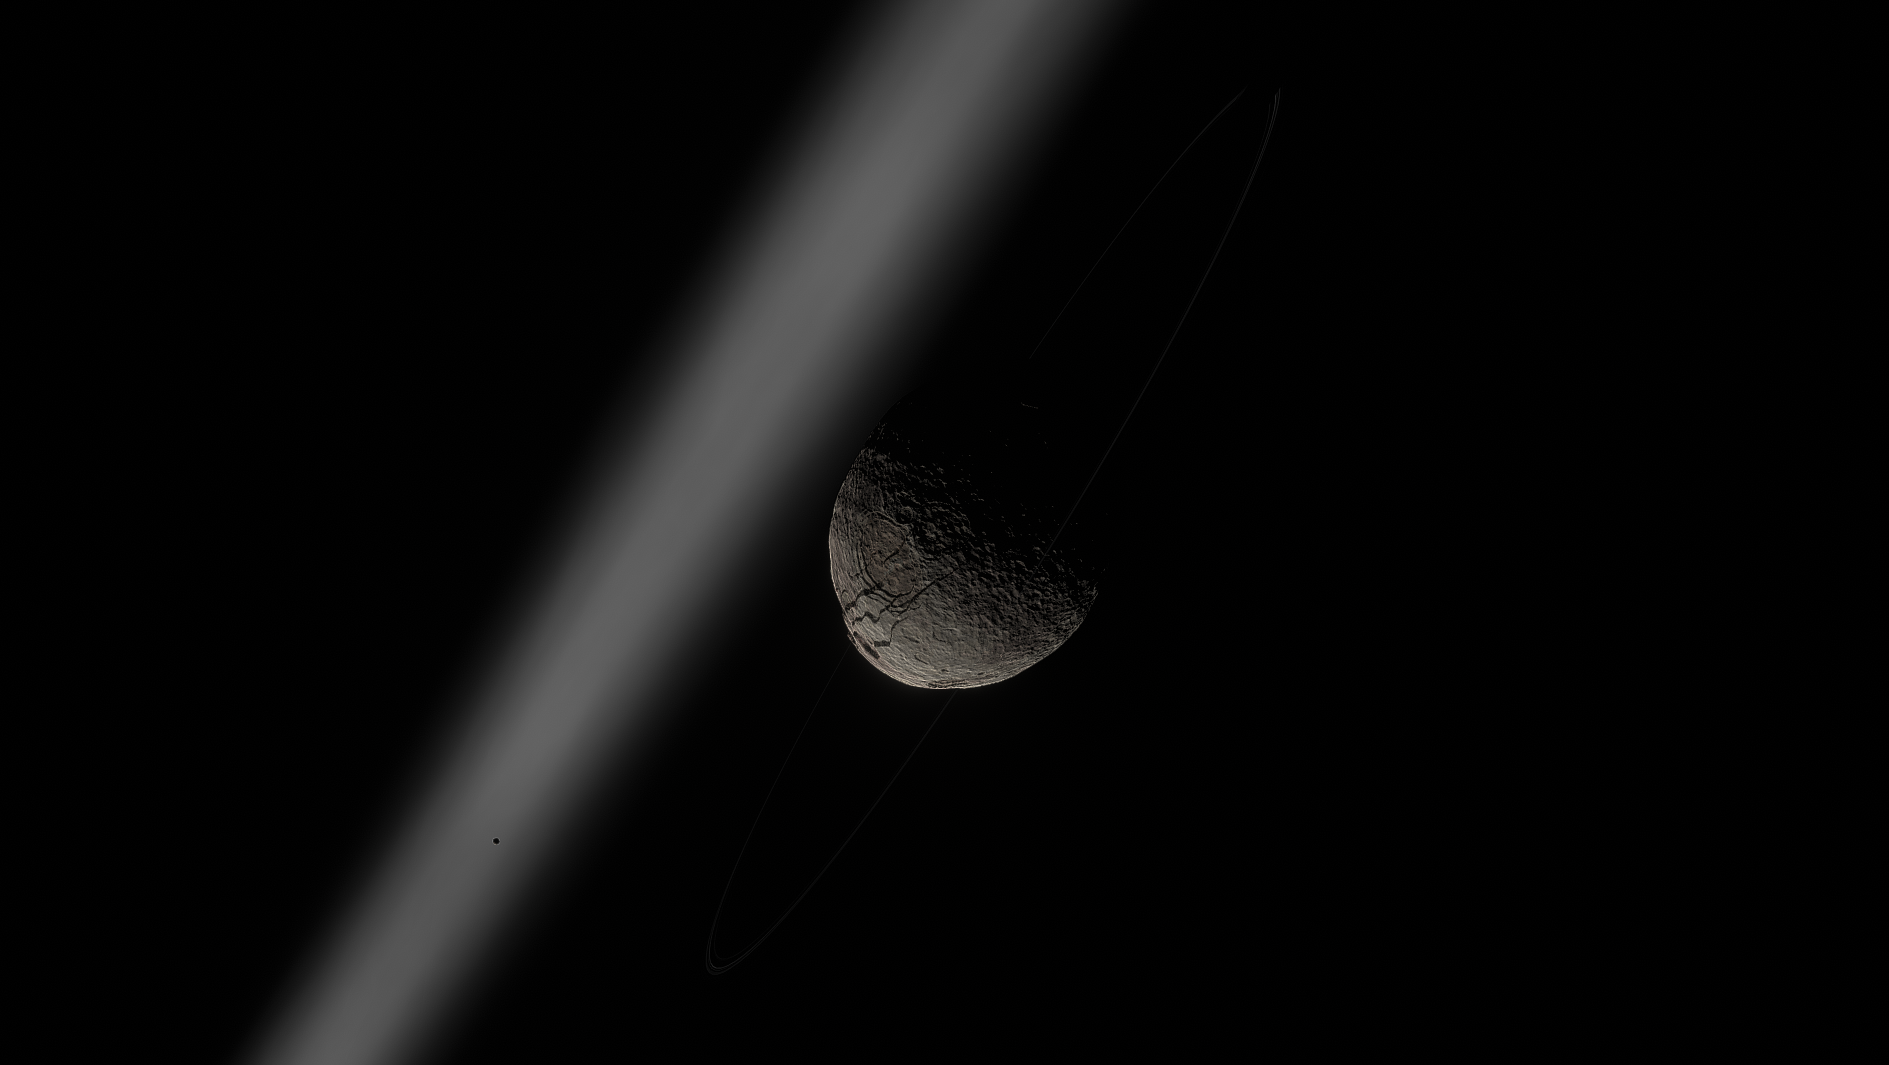
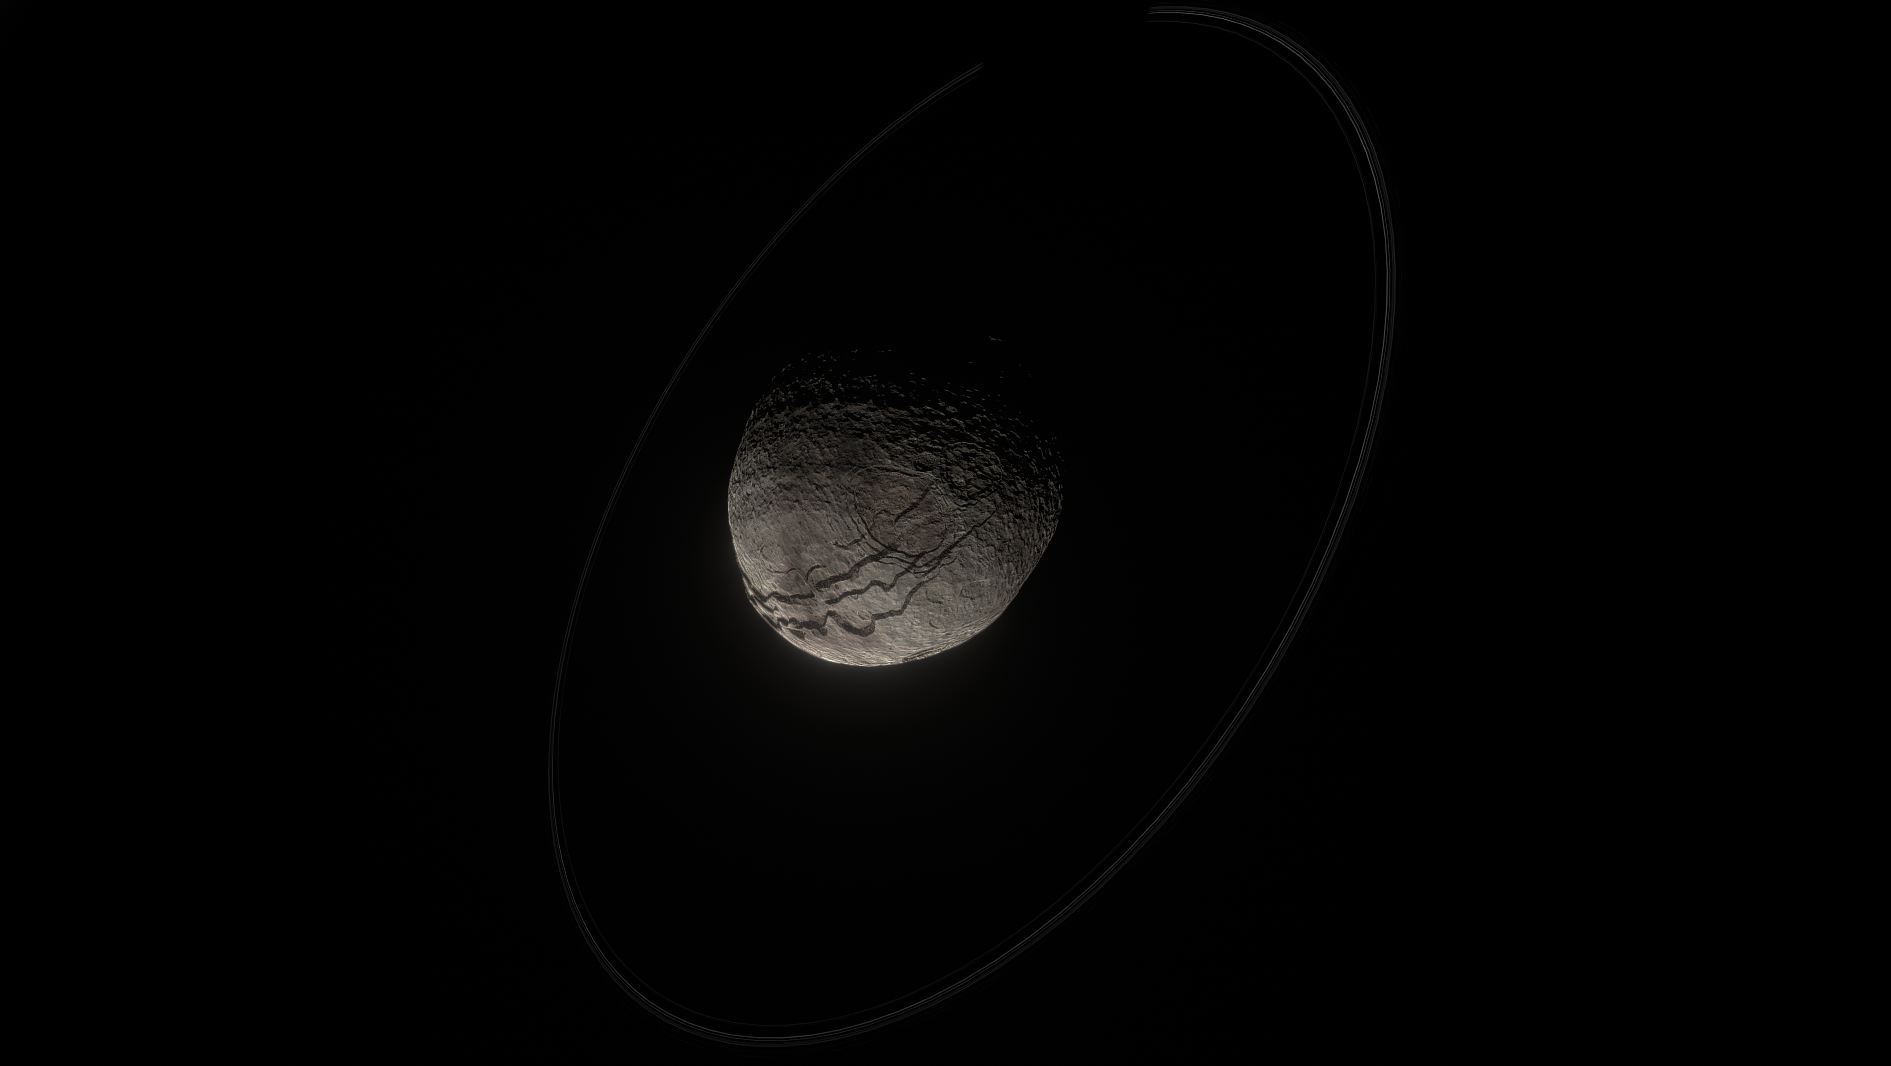
Update Axod Wiki, more images
Proper ScaledSpace/PQS/ParallaxScaled Images

Changed region(s): [[0.1249, 0.0, 0.5934, 1.0]]

diff --git a/docs/debdeb/Axod.md b/docs/debdeb/Axod.md
@@ -15,12 +15,17 @@ The skewed dwarf planet Axod spins so fast that its hemispheres have offset over
 
 ## A look at Axod Close-up:
 
-Axod is Quite the place! Cliffs so tall it looks comical!
+Axod is Quite the place! Because the dwarf planet spins so rapidly, once every 80 minutes, the planet has begun to fling itself apart, creating cliffs so tall it looks comical!
 
-![](../assets/AxodSurface2.png)
+![](../assets/AxodCliffs.png)
 
+A look at the cliffs from the eyes of a Kerbal
+![](../assets/AxodSurface.png)
+
+One of the smaller rifts/valleys from above
 ![](../assets/AxodLow.png)
 
-![](../assets/AxodSurface.png)
+A look at one of Axod's many mountains
+![](../assets/AxodSurface2.png)
 
 *The Systems of Promised Worlds may change in-between updates. Please notify the Dev team if this is out of date, or make an issue on this repository.*
